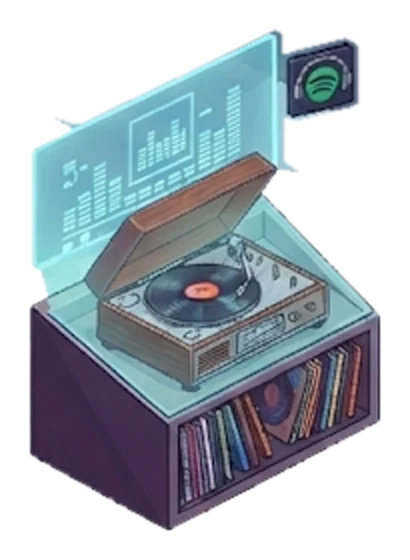
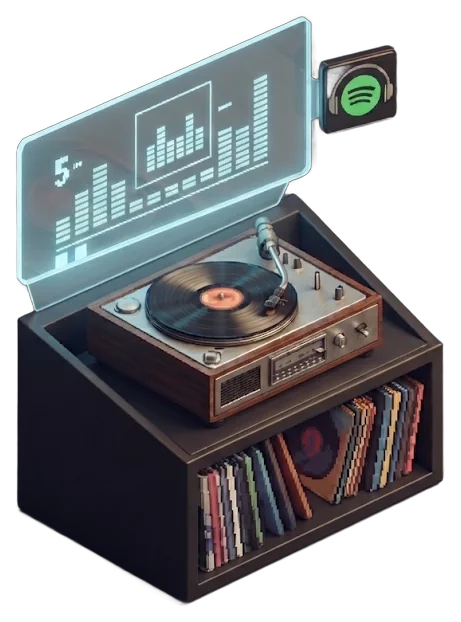
Arcade (prueba): tocadiscos, recreativa y mesa con los renders nuevos
Claude-Session: https://claude.ai/code/session_01WvcRZ9mxL7Ztf2JTxQvTJ1

diff --git a/src/data/arcade.ts b/src/data/arcade.ts
@@ -24,9 +24,9 @@ export interface ArcadePlacement {
 
 export const PLACEMENTS: ArcadePlacement[] = [
   { id: 'sala', x: 50.6, y: 93.2, width: 102.6 },
-  { id: 'vinilo', x: 22.1, y: 81.6, width: 29.5 },
-  { id: 'recreativa', x: 42.2, y: 63.6, width: 24.9 },
-  { id: 'mesa', x: 71.9, y: 85.8, width: 44.9 },
+  { id: 'vinilo', x: 22.1, y: 81.6, width: 26 },
+  { id: 'recreativa', x: 42.2, y: 63.6, width: 21 },
+  { id: 'mesa', x: 72, y: 85.8, width: 36 },
 ]
 
 /** Nombre que sale en la etiqueta al pasar el ratón. */

diff --git a/scripts/arcade_objetos.py b/scripts/arcade_objetos.py
@@ -1,0 +1,87 @@
+"""Objetos del Arcade (tocadiscos, recreativa y mesa) a partir de renders sobre fondo gris.
+
+Uso: python3 scripts/arcade_objetos.py
+Requisitos: pip install "rembg[cpu]" opencv-python-headless pillow numpy
+(la primera vez rembg descarga su modelo, unos 180 MB)
+
+Entrada: Imagenes/Arcade_vinilo.png, Arcade_recreativa.png, Arcade_mesa.png
+Salida: public/arcade/<objeto>.webp y <objeto>_hover.webp, y su entrada en src/data/arcadeHit.json
+(tamaño y contorno clicable). La sala no se toca: sale de scripts/arcade_room.py.
+"""
+import json
+from pathlib import Path
+
+import cv2
+import numpy as np
+from PIL import Image
+from rembg import new_session, remove
+
+from cutout import disk, save_rgba, R_FRAC, E_FRAC
+
+ROOT = Path(__file__).resolve().parent.parent
+OUT = ROOT / "public" / "arcade"
+DATA = ROOT / "src" / "data" / "arcadeHit.json"
+SOURCES = {"vinilo": "Arcade_vinilo.png", "recreativa": "Arcade_recreativa.png", "mesa": "Arcade_mesa.png"}
+PAD = 16
+
+
+def build(rgba: np.ndarray, name: str) -> dict:
+    alpha = rgba[..., 3].astype(np.float32) / 255
+    # quitar restos sueltos del fondo: solo la pieza grande
+    m = (alpha > 0.5).astype(np.uint8)
+    n, lab, st, _ = cv2.connectedComponentsWithStats(m, connectivity=8)
+    big = 1 + int(np.argmax(st[1:, cv2.CC_STAT_AREA]))
+    keep = cv2.dilate((lab == big).astype(np.uint8), disk(6)).astype(bool)
+    alpha = alpha * keep
+
+    ys, xs = np.where(alpha > 0.02)
+    y0, y1 = max(ys.min() - PAD, 0), min(ys.max() + PAD + 1, alpha.shape[0])
+    x0, x1 = max(xs.min() - PAD, 0), min(xs.max() + PAD + 1, alpha.shape[1])
+    rgb = rgba[y0:y1, x0:x1, :3].astype(np.float32)
+    alpha = alpha[y0:y1, x0:x1]
+    h, w = alpha.shape
+    save_rgba(np.dstack([rgb, alpha * 255]), str(OUT), name, None)
+
+    # hover: silueta blanca + filo oscuro, como los edificios
+    R = max(6, round(max(w, 380) * R_FRAC))
+    E = max(2, round(max(w, 380) * E_FRAC))
+    mask = (alpha > 0.5).astype(np.uint8)
+    white = cv2.GaussianBlur(cv2.dilate(mask, disk(R)).astype(np.float32), (0, 0), 0.8)
+    edge = cv2.GaussianBlur(cv2.dilate(mask, disk(R + E)).astype(np.float32), (0, 0), 0.8)
+    lay = np.zeros((h, w, 4), np.float32)
+    lay[..., :3] = (60, 55, 75)
+    lay[..., 3] = edge * 0.9
+    lay[..., :3] = 255 * white[..., None] + lay[..., :3] * (1 - white[..., None])
+    lay[..., 3] = white + lay[..., 3] * (1 - white)
+    na = alpha[..., None]
+    comp_rgb = rgb * na + lay[..., :3] * lay[..., 3:4] * (1 - na)
+    comp_a = alpha + lay[..., 3] * (1 - alpha)
+    comp_rgb = np.where(comp_a[..., None] > 1e-4, comp_rgb / np.maximum(comp_a[..., None], 1e-4), 0)
+    save_rgba(np.dstack([comp_rgb, comp_a * 255]), str(OUT), f"{name}_hover", None)
+
+    hit = cv2.morphologyEx(mask, cv2.MORPH_CLOSE, disk(4))
+    contours, _ = cv2.findContours(hit, cv2.RETR_EXTERNAL, cv2.CHAIN_APPROX_SIMPLE)
+    biggest = max(cv2.contourArea(c) for c in contours)
+    polys = []
+    for c in sorted(contours, key=cv2.contourArea, reverse=True):
+        if cv2.contourArea(c) < biggest * 0.01:
+            continue
+        ap = cv2.approxPolyDP(c, 2.0, True)[:, 0, :]
+        polys.append([[round(float(x) / w, 4), round(float(y) / h, 4)] for x, y in ap])
+    print(f"{name}: {w}x{h}, {len(polys)} polígono(s)")
+    return {"width": w, "height": h, "polygons": polys}
+
+
+def main():
+    session = new_session("isnet-general-use")
+    hit = json.loads(DATA.read_text(encoding="utf-8"))
+    for name, fname in SOURCES.items():
+        im = Image.open(ROOT / "Imagenes" / fname).convert("RGB")
+        rgba = np.array(remove(im, session=session))
+        hit[name] = build(rgba, name)
+    DATA.write_text(json.dumps(hit, separators=(",", ":")) + "\n", encoding="utf-8")
+    print(f"Escrito {DATA.relative_to(ROOT)}")
+
+
+if __name__ == "__main__":
+    main()
